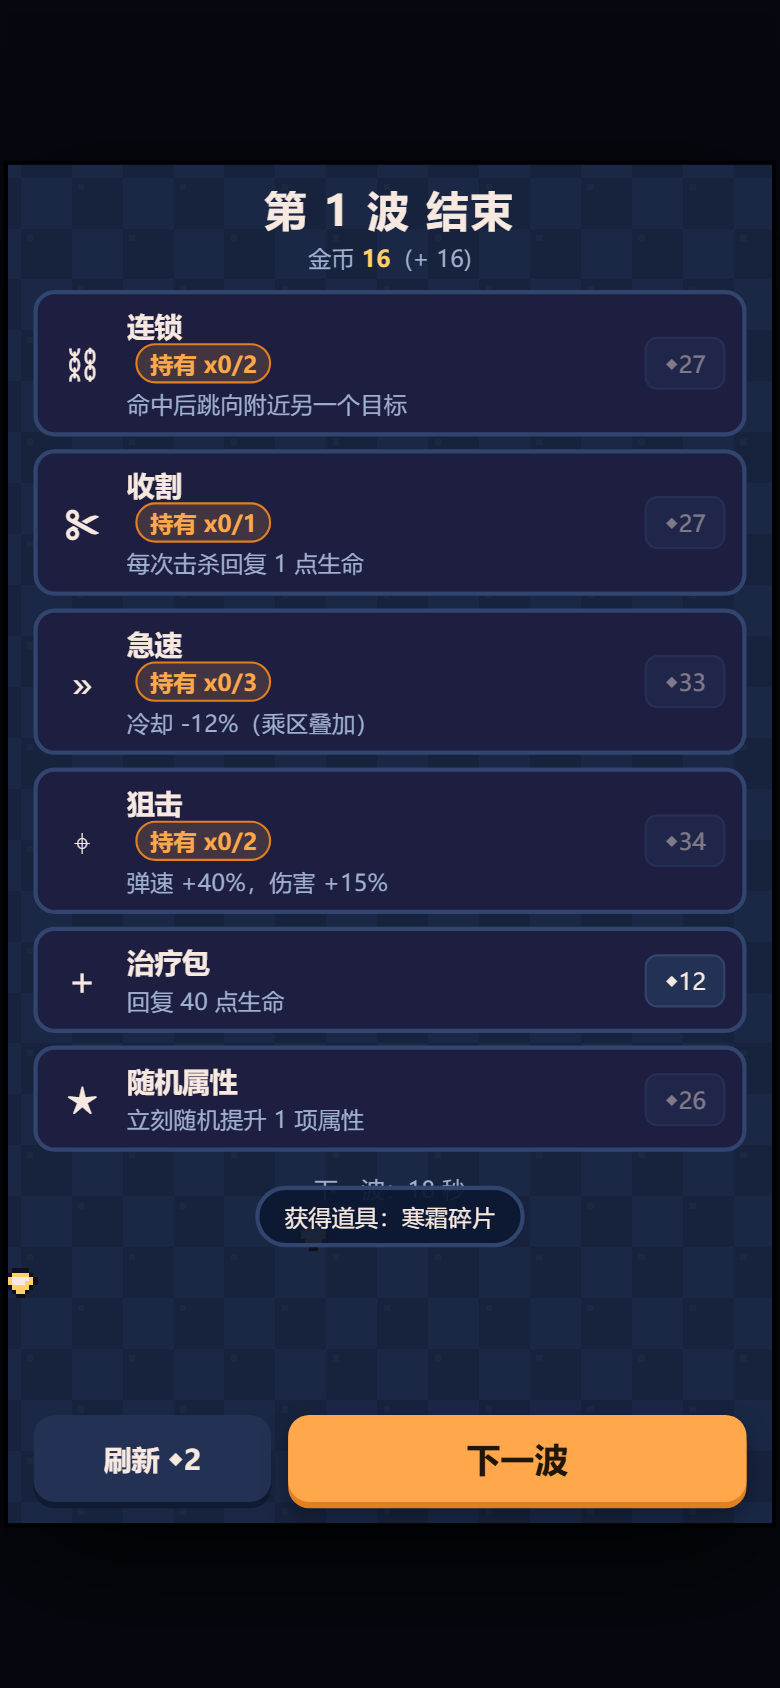
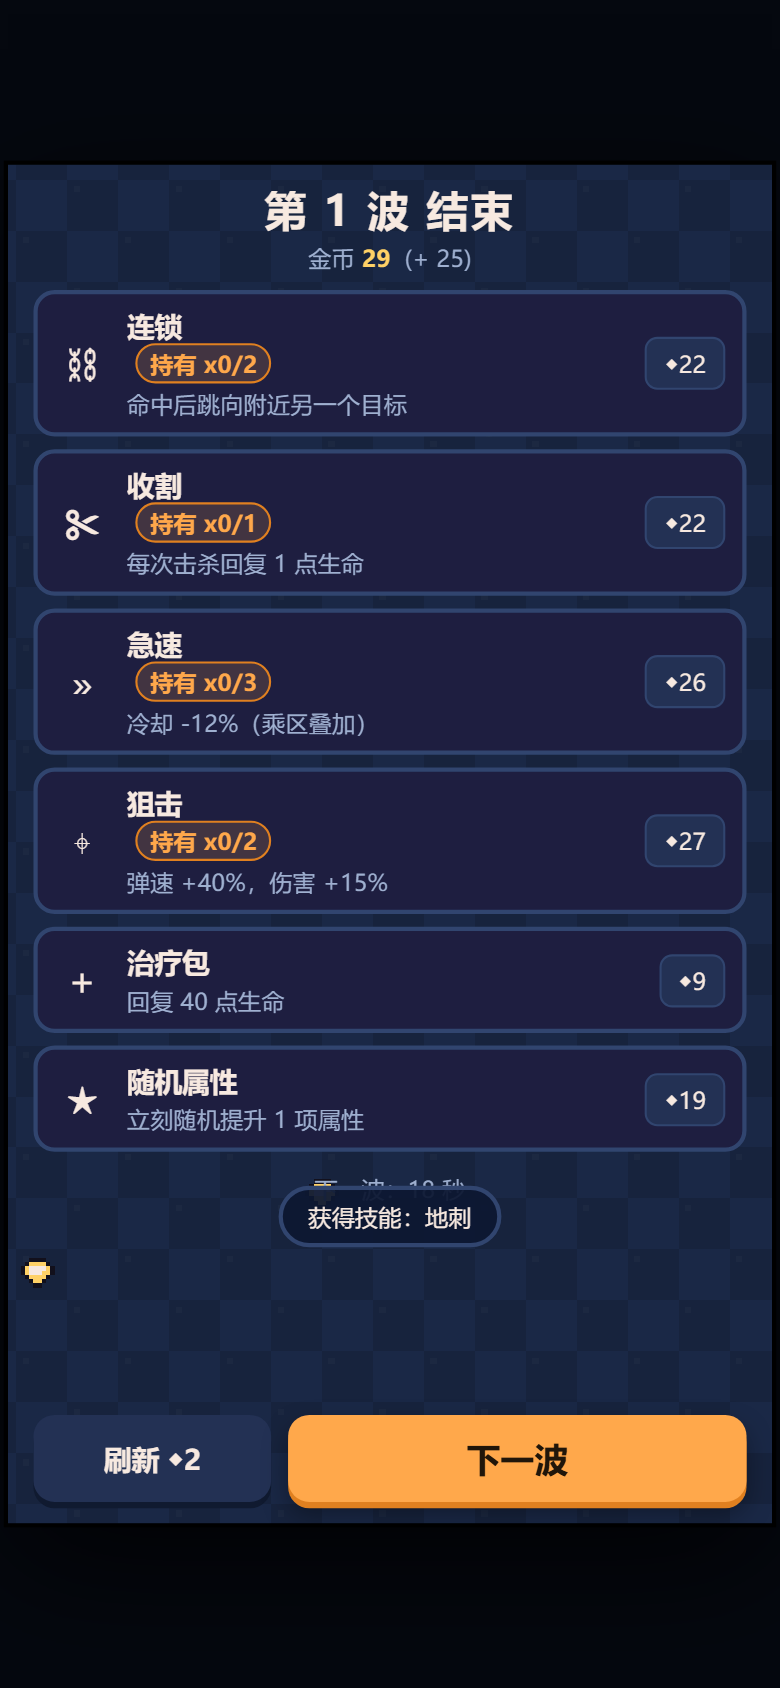
M5: 按实测反馈调平衡 — 刷怪去断崖 + 敌人分波解锁 + 金币经济
诊断：第2波'怪追得凶'的真因是刷怪公式 1+floor(wave/2) 在第2波断崖跳变(24->54只)，
且最快的蝙蝠(86px/s ≈ 骑士86.4)第2波就出场，玩家躲不掉。

- 刷怪：每批 min(5,1+floor(wave/4))、间隔 max(0.30,0.95-w*0.04) → 第2波 54->21只，第20波 1800->600只
- 敌人分波解锁：史莱姆(1)/蝙蝠(3)/哥布林(5)/骷髅(8)；蝙蝠 86->76 px/s（低于玩家速度，可躲）
- 成长放缓：血量 +42%/波 -> +32%/波；伤害 +16% -> +12%
- 金币：波结算 10+6w -> 16+7w；掉落 0/1 -> 1/1/2/2，精英 6->15，BOSS 40->60；商店价格下调
- 新护栏：断崖检测/解锁顺序/最快怪<玩家速度/第20波刷怪<800/130只怪同屏61帧/商店买得起
- E2E 67 PASS / 门禁 55 PASS

diff --git a/prototype-html/src/engine.js b/prototype-html/src/engine.js
@@ -109,19 +109,20 @@ function resetFlags(){ G.flags = {harvest:false, thornmail:0, thunder:0}; }
 
 /* ---------- 敌人生成 ---------- */
 const ENEMY_DEF = {
-  // 速度标定：约为玩家移速(96)的 55%~90%；随玩家提速同步上调，保持「能拉开但拉不掉」的追击感
-  slime: {spr:'slime', hp:12, spd:52, dmg:6,  r:9,  exp:1, gold:0},
-  goblin:{spr:'goblin',hp:20, spd:72, dmg:8,  r:9,  exp:1, gold:1},
-  skel:  {spr:'skel',  hp:26, spd:62, dmg:10, r:9,  exp:2, gold:1},
-  bat:   {spr:'bat',   hp:12, spd:86, dmg:7,  r:8,  exp:1, gold:0},
-  elite: {spr:'elite', hp:150,spd:44, dmg:16, r:13, exp:8, gold:6},
-  boss:  {spr:'boss',  hp:900,spd:48, dmg:22, r:20, exp:40, gold:40}
+  // 速度标定：约为玩家移速(96)的 50%~80%（蝙蝠最快要保持在玩家速度带以下，否则无法躲）
+  // from = 从第几波开始出现：新手期只出慢怪，避免第 2 波就被高速怪围死
+  slime: {spr:'slime', hp:12, spd:50, dmg:6,  r:9,  exp:1, gold:1, from:1},
+  bat:   {spr:'bat',   hp:12, spd:76, dmg:7,  r:8,  exp:1, gold:1, from:3},
+  goblin:{spr:'goblin',hp:20, spd:66, dmg:8,  r:9,  exp:1, gold:2, from:5},
+  skel:  {spr:'skel',  hp:26, spd:58, dmg:10, r:9,  exp:2, gold:2, from:8},
+  elite: {spr:'elite', hp:150,spd:44, dmg:16, r:13, exp:8, gold:15},
+  boss:  {spr:'boss',  hp:900,spd:48, dmg:22, r:20, exp:40, gold:60}
 };
 
 function spawnEnemy(kind, x, y, scale){
   const d = ENEMY_DEF[kind], s = scale||1, g = (G.wave||1) - 1;
-  const hp = Math.round(d.hp * (1 + 0.42*g) * s);
-  ents.enemies.push({kind, spr:d.spr, x, y, hp, maxhp:hp, spd:d.spd, dmg:Math.round(d.dmg*(1+0.16*g)),
+  const hp = Math.round(d.hp * (1 + 0.32*g) * s);   // 原 0.42/波，用户反馈前中期过陡
+  ents.enemies.push({kind, spr:d.spr, x, y, hp, maxhp:hp, spd:d.spd, dmg:Math.round(d.dmg*(1+0.12*g)),
     r:d.r, exp:d.exp, gold:d.gold, flash:0, kb:0, kx:0, ky:0, slow:0, burn:0, dead:false, boss:kind==='boss'});
 }
 
@@ -175,11 +176,13 @@ function updateBattle(dt){
   }
   {
     spawnAcc += dt;
-    const interval = Math.max(0.22, 0.85 - G.wave*0.09);
+    // 平滑曲线：之前用 1+floor(wave/2)，第 2 波直接从 1 只/次跳到 2 只/次（强度翻 2.3 倍），
+    // 用户实测「第 2 波怪追得很凶」即由此而来。现在改为更缓的台阶。
+    const interval = Math.max(0.30, 0.95 - G.wave*0.04);
     if (spawnAcc > interval){
       spawnAcc = 0;
-      const pool = ['slime','bat','goblin','skel'].slice(0, Math.min(4, 1 + Math.floor(G.wave/2)));
-      const n = 1 + Math.floor(G.wave/2);
+      const pool = ['slime','bat','goblin','skel'].filter(k => G.wave >= ENEMY_DEF[k].from);
+      const n = Math.min(5, 1 + Math.floor(G.wave/4));
       for (let i=0;i<n;i++){
         // 围绕玩家、在可视区外一圈生成（否则慢速怪要走很久才到，节奏拖沓）
         const a = G.rng.range(0, Math.PI*2);

diff --git a/prototype-html/src/flow.js b/prototype-html/src/flow.js
@@ -33,7 +33,7 @@ function waveClear(){
   let bonus = 0;
   for (const e of ents.enemies){ if (!e.dead){ e.dead = true; G.kills++; bonus += e.gold || 0; } }
   ents.enemies = [];
-  const raw = 10 + G.wave*6 + bonus;   // 波次越深金币越多
+  const raw = 16 + G.wave*7 + bonus;   // 原 10+6/波，用户反馈「金币不够」→ 提高结算产出
   const gain = Math.round(raw * (1 + (G.stats.greed || 0)));
   G.gold += gain;
   G.lastWaveGold = gain;
@@ -57,17 +57,17 @@ function makeShopStock(){
     const roll = rng.rnd();
     if (roll < 0.45 && itemPool.length){
       const id = itemPool.splice(rng.int(0, itemPool.length-1), 1)[0];
-      out.push({kind:'item', id, price: 16 + rng.int(0,8) + G.wave*3});
+      out.push({kind:'item', id, price: 13 + rng.int(0,6) + G.wave*2});
     } else if (modPool.length){
       const id = modPool.splice(rng.int(0, modPool.length-1), 1)[0];
-      out.push({kind:'module', id, price: 20 + rng.int(0,10) + G.wave*4});
+      out.push({kind:'module', id, price: 17 + rng.int(0,7) + G.wave*3});
     } else if (itemPool.length){
       const id = itemPool.splice(rng.int(0, itemPool.length-1), 1)[0];
-      out.push({kind:'item', id, price: 16 + rng.int(0,8) + G.wave*3});
+      out.push({kind:'item', id, price: 13 + rng.int(0,6) + G.wave*2});
     }
   }
-  out.push({kind:'heal', id:'heal', price: 10 + G.wave*2});
-  out.push({kind:'attr', id:'attr', price: 22 + G.wave*4});
+  out.push({kind:'heal', id:'heal', price: 8 + G.wave});
+  out.push({kind:'attr', id:'attr', price: 16 + G.wave*3});
   return out;
 }
 function openShop(){

diff --git a/memory-bank/decisions.md b/memory-bank/decisions.md
@@ -141,6 +141,53 @@
 - **回归保障**：E2E 断言「移速 ≥80」「拾取半径 ≥70」「站着不动 60/70px 外的宝石全部吸走」
   「400px 外的宝石不被隔空吸走」。
 
+## D-19 难度曲线与经济调优（用户第五轮实测反馈）
+
+用户实测反馈：「第 2 波的怪追得很凶」「金币不够」。
+
+### 诊断（真因在公式里，不是"感觉"）
+
+```
+旧刷怪公式：每批 n = 1 + floor(wave/2)
+  第 1 波 1 只/批  →  第 2 波 2 只/批    ← 强度瞬间翻 2.25 倍（断崖）
+旧总刷怪量：第 8 波 545 只 / 第 20 波 1800 只  ← 数值爆炸
+敌人解锁：蝙蝠（86 px/s，全场最快）第 2 波就出场，且 86 ≈ 骑士移速 86.4 → 根本躲不掉
+```
+
+### 修复
+
+| 项 | 旧 | 新 |
+|---|---|---|
+| 每批数量 | `1 + floor(wave/2)` | `min(5, 1 + floor(wave/4))` |
+| 刷怪间隔 | `max(0.22, 0.85 - wave*0.09)` | `max(0.30, 0.95 - wave*0.04)` |
+| **第 2 波总刷怪** | **54 只** | **21 只** |
+| 第 20 波总刷怪 | 1800 只 | 600 只 |
+| 敌人解锁 | 第 2 波起混合出 | **分波解锁**：史莱姆(1) / 蝙蝠(3) / 哥布林(5) / 骷髅(8) |
+| 蝙蝠速度 | 86 px/s（≈玩家速度） | **76 px/s**（玩家 86.4，可躲） |
+| 血量成长 | +42%/波 | **+32%/波** |
+| 伤害成长 | +16%/波 | **+12%/波** |
+
+### 金币经济
+
+| 项 | 旧 | 新 |
+|---|---|---|
+| 波次结算 | `10 + 波数 x 6` | `16 + 波数 x 7` |
+| 杀怪掉落 | 史莱姆 0 / 蝙蝠 0 / 哥布林 1 / 骷髅 1 / 精英 6 / BOSS 40 | 1 / 1 / 2 / 2 / **15** / **60** |
+| 道具价格 | `16 + rand(0,8) + 波数x3` | `13 + rand(0,6) + 波数x2` |
+| 模块价格 | `20 + rand(0,10) + 波数x4` | `17 + rand(0,7) + 波数x3` |
+| 治疗 / 属性 | `10+w*2` / `22+w*4` | `8+w` / `16+w*3` |
+
+结果：第 1 波结束约 **40~45 金币**（结算 23 + 杀怪约 20），商店最便宜 9 金币 → 前期买得起。
+
+### 新增回归护栏
+
+- `第 2 波不是断崖：20 -> 21 只（<= 1.4 倍）`
+- `第 1/2 波只有史莱姆`、`第 3 波才解锁蝙蝠`
+- `最快怪速度 < 玩家速度`（可躲是硬条件）
+- `第 20 波总刷怪 < 800`（防再次数值爆炸）
+- `130 只怪同屏 >= 40 帧`（实测 61 帧）
+- `第 1 波商店最便宜 <= 20 金币`
+
 ## D-07 里程碑制
 
 - **决策**：一次只做一个里程碑，做完停下等用户确认；禁止连续推进多个里程碑。

diff --git a/memory-bank/project.md b/memory-bank/project.md
@@ -4,7 +4,7 @@
 |---|---|
 | 项目 | 《疯狂怪潮》 / `crazy-monster-tide` |
 | 工程 | `H:\AI-game\crazy_monster_tide` |
-| 阶段 | **M4 完成**：手感调优（移速 62→96 px/s、经验靠近自动拾取） |
+| 阶段 | **M5 完成**：难度曲线去断崖 + 敌人分波解锁 + 金币经济调优（按用户实测） |
 | 引擎 | **Cocos Creator 3.8.6**（与 `H:\AI-game\xingnang\cocos_port` 对齐）｜ D-02 |
 | 世界观 | **像素奇幻** ｜ D-08 |
 | UI 参考 | Möbelmon（reference_only） ｜ D-09 |
@@ -16,7 +16,7 @@
 - M0：Agent 文档体系（地图 / 流程 / 系统规则 / UI / 素材 / 测试 / memory-bank）
 - M1：四大决策落盘；Möbelmon UI 素材采集与结构化分析；**可玩 HTML MVP**（`prototype-html/`）
   - Playwright E2E：**67 PASS / 0 FAIL，零控制台错误**（375x812 / 390x844 / 412x915 三档视口）
-  - 静态门禁：**45 PASS / 0 FAIL**（含移速 / 拾取半径 / 自动吸取的量化断言）
+  - 静态门禁：**55 PASS / 0 FAIL**（含难度曲线 / 性能 / 金币经济的量化断言）
   - 固定 seed 可复现（同 seed → 同奖励组、同商店货架）
 
 ## 关卡结构（已变更）
@@ -33,7 +33,7 @@
 
 | # | 风险 | 说明 | 缓解 |
 |---|---|---|---|
-| R1 | 数值未平衡 | 20 波曲线与金币经济只做过粗算，未实测 | 待用户实测反馈后调参 |
+| R1 | 数值待继续实测 | 第 2 波断崖与金币缺口已修，但中后期（8~20 波）仍未经真人验证 | 待第二轮实测 |
 | R6 | 玩家提速后难度偏移 | 玩家 96 px/s、蝙蝠 86 px/s，速度带重叠，可能更难躲 | 待实测（Q12） |
 | R2 | 素材授权与体量 | 母本 3,666 个文件需逐项过 Gate | S1 集中处理 |
 | R3 | 参考案例不足 3 个 | 当前 2 个（Möbelmon / Brotato），协议要求 >=3 才能冻结 UI | 待补（Q7） |

diff --git a/memory-bank/tasks.md b/memory-bank/tasks.md
@@ -2,7 +2,7 @@
 
 ## 当前阶段
 
-**M4 已完成**：手感调优（移速 + 自动拾取）。**下一步待用户确认。**
+**M5 已完成**：难度曲线与经济调优（按用户实测反馈）。**下一步待用户确认。**
 
 ---
 
@@ -31,6 +31,27 @@
 - 拾取半径 ≥ 70 px（实测 85）
 - **站着不动**：60px / 70px 外的宝石全部自动吸走
 - **400px 外**的宝石原地不动（证明半径不是无限大，不是全屏捡）
+
+---
+
+## M5 交付物（用户第五轮实测反馈）
+
+| # | 反馈 | 诊断 | 修复 |
+|---|---|---|---|
+| 1 | 移速够了 | — | 保持 96 px/s，不动 |
+| 2 | **第 2 波的怪追得很凶** | 刷怪公式 `1+floor(wave/2)` 在第 2 波**断崖翻 2.25 倍**（24→54 只）；最快的蝙蝠（86px/s ≈ 骑士 86.4）第 2 波就出场，躲不掉 | 曲线改 `min(5,1+floor(wave/4))` → **第 2 波 21 只**；敌人**分波解锁**（史莱姆1 / 蝙蝠3 / 哥布林5 / 骷髅8）；蝙蝠 86→**76 px/s** |
+| 3 | 第 2 波开始难受 | 同上（其实第 2 波是全局最陡的一跳） | 同上；另把血量成长 42%→**32%**、伤害成长 16%→**12%** |
+| 4 | **金币不够** | 第 1 波结算仅 16 金币，商店最低 19 → 什么都买不起 | 结算 `10+6w` → **`16+7w`**；杀怪掉落 0/1 → **1/1/2/2**，精英 6→15，BOSS 40→60；商店价格整体下调 |
+
+### 验证
+
+```
+玩家流程 E2E（含三档视口）: 67 PASS / 0 FAIL · 零控制台错误
+静态门禁（16 组）          : 55 PASS / 0 FAIL
+```
+
+新增护栏断言：`第2波不是断崖(20→21)`、`第1/2波只有史莱姆`、`第3波才解锁蝙蝠`、
+`最快怪 < 玩家速度`、`第20波刷怪<800`、**`130只怪同屏 61 帧`**、`第1波商店最低 9 金币`。
 
 ---
 

diff --git a/docs/requirements.md b/docs/requirements.md
@@ -174,6 +174,7 @@ HTML/UI 迭代确认后，冻结 UI Spec，再在正式引擎中实现。
 | R6 | 2026-10-12 | — | 波间**不做**随机事件 | 用户：「不用」 |
 | R7 | 2026-10-12 | §3 动态摇杆（未定移速） | **基础移速 62 → 96 px/s**，敌人同比例提速 | 用户：「初始移速太慢了」（D-18） |
 | R8 | 2026-10-12 | §2 经验掉落（未定拾取方式） | 经验宝石**靠近即自动吸取**（半径 85px），不必走过去 | 用户：「靠近就可以自动拾取」（D-18） |
+| R9 | 2026-10-12 | §7 怪物（未定难度曲线） | **刷怪曲线去断崖 + 敌人分波解锁 + 成长放缓**；金币产出提高、商店降价 | 用户实测：「第 2 波怪追得很凶」「金币不够」（D-19） |
 
 **仍然有效的原需求**：4 主动技能 / 每技能 3 行为槽 / 模块可重复安装 / 升级 3 选 1 四类奖励 /
 动态摇杆 / 战斗 HUD 结构 / 像素风 / 竖屏 360x640 / 禁止赌博语义。
